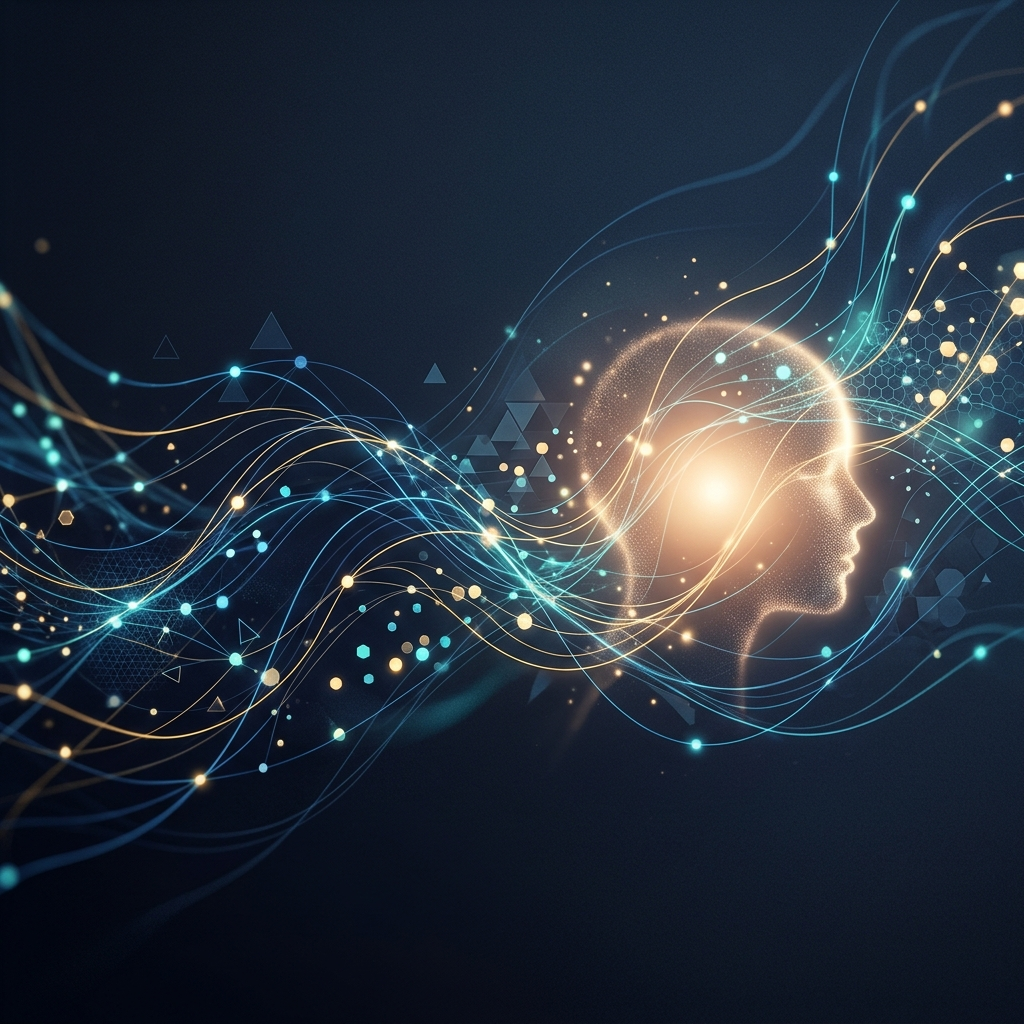
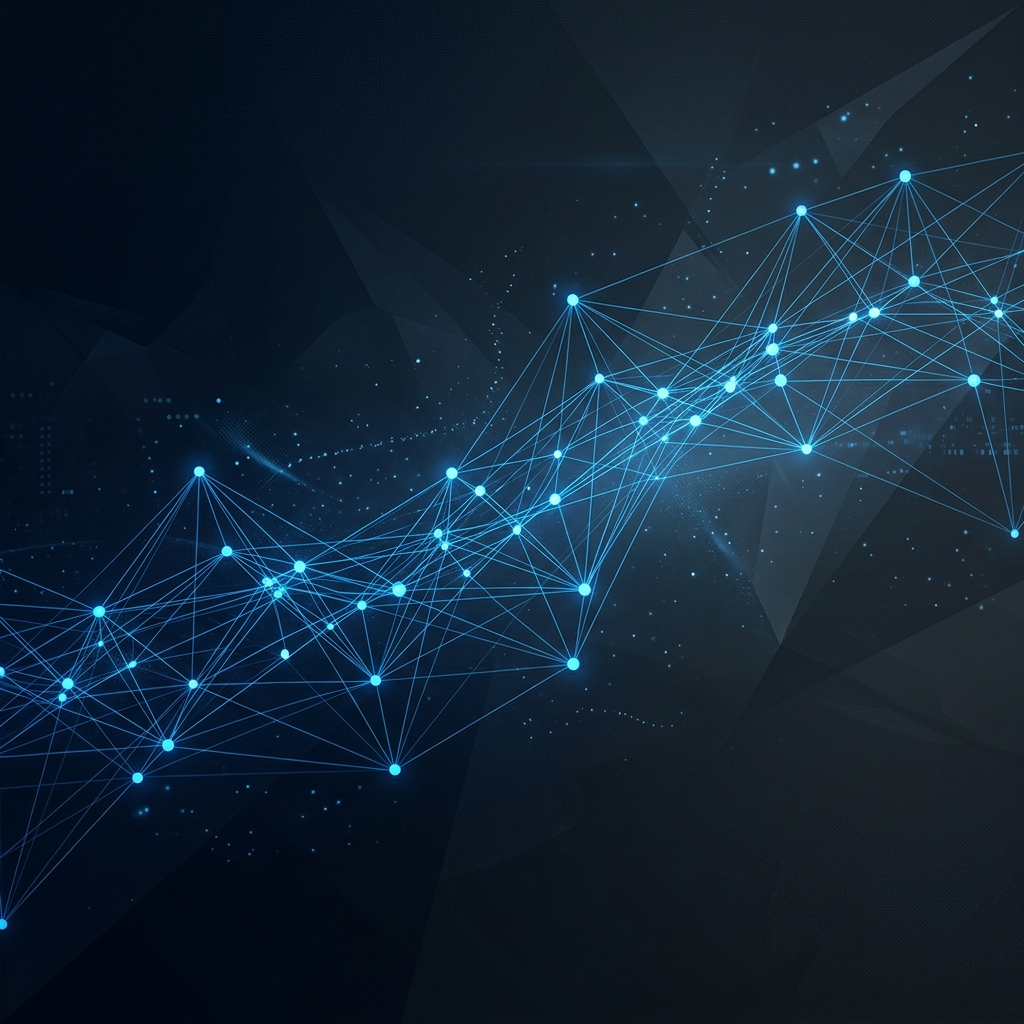
Anonymize website: replace personal name, photos, and references with yankubota and illustrations

diff --git a/index.html b/index.html
@@ -3,8 +3,8 @@
 <head>
     <meta charset="UTF-8">
     <meta name="viewport" content="width=device-width, initial-scale=1.0">
-    <title>久保田 善博 ｜ 中小企業のDXを成果に変える伴走者 (株式会社Banso)</title>
-    <meta name="description" content="株式会社Banso代表。中小企業のDX推進をデータ、AI、人の才能で伴走支援。ウェブ解析士マスター、ブランド・マネージャー1級。">
+    <title>yankubota ｜ 中小企業のDXを成果に変える伴走者 (Personal Tech Lab)</title>
+    <meta name="description" content="Personal Tech Lab代表。中小企業のDX推進をデータ、AI、人の才能で伴走支援。ITコンサルタント、DXアドバイザー。">
     <link rel="stylesheet" href="index.css">
 </head>
 <body>
@@ -12,8 +12,8 @@
     <header>
         <div class="container nav-container">
             <div class="logo-group">
-                <img src="logo.png" alt="Banso Logo" class="logo-icon">
-                <span class="logo-text">Yoshihiro Kubota</span>
+                <img src="logo.png" alt="Logo" class="logo-icon">
+                <span class="logo-text">yankubota</span>
             </div>
             <nav>
                 <!-- Simple nav could be added here if needed -->
@@ -32,7 +32,7 @@
                     <span class="gradient-text">人の才能で伸ばす。</span>
                 </h1>
                 <p class="hero-subtitle">
-                    久保田 善博 ｜ 株式会社Banso 代表取締役<br>
+                    yankubota ｜ Personal Tech Lab 代表<br>
                     中小企業のDXを、"その場で動く成果"に変える伴走者
                 </p>
                 <a href="#about" class="btn btn-primary">詳しく知る</a>
@@ -46,32 +46,32 @@
             <div class="about-flex">
                 <div class="about-text">
                     <p>
-                        1978年、茨城県土浦市生まれ。2019年に株式会社Bansoを創業し、以来一貫して中小企業のデジタル活用を現場で伴走支援してまいりました。
+                        1970年代生まれ、関東近辺を拠点に活動。2019年に個人プロジェクトを立ち上げ、以来一貫して中小企業のデジタル活用を現場で伴走支援してまいりました。
                     </p>
                     <p style="margin-top: 1.5rem;">
-                        専門は、ウェブ解析に基づく販路開拓支援と、生成AI・n8n等を組み合わせたマーケティング業務の自動化設計です。ウェブ解析士マスターとして数値の裏付けを重視しつつ、ブランド・マネージャー1級の視点から「その会社らしさ」を言語化することを強みとしています。
+                        専門は、データ解析に基づく販路開拓支援と、生成AI等を組み合わせた業務の自動化設計です。数値の裏付けを重視しつつ、ブランド戦略の視点から「その組織らしさ」を言語化することを強みとしています。
                     </p>
                     <p style="margin-top: 1.5rem;">
-                        現在は、東京都江東区と茨城県土浦市の2拠点生活を送りながら、WACA関東支部長として協会運営に関与するほか、デジタル庁デジタル推進委員、経済産業省認定 経営革新等支援機関として、補助金活用・地方DX推進に多角的に取り組んでいます。
+                        現在は、都心と地方の2拠点生活を送りながら、IT団体の役職を務めるほか、公的機関のDX推進アドバイザー、認定支援機関として、補助金活用に取り組んでいます。
                     </p>
                     
                     <div class="profile-meta">
                         <div class="meta-item">
                             <span class="meta-label">代表</span>
-                            <span>久保田 善博 (くぼた よしひろ)</span>
+                            <span>yankubota</span>
                         </div>
                         <div class="meta-item">
-                            <span class="meta-label">会社名</span>
-                            <span>株式会社Banso</span>
+                            <span class="meta-label">活動名</span>
+                            <span>Personal Tech Lab</span>
                         </div>
                         <div class="meta-item">
                             <span class="meta-label">拠点</span>
-                            <span>東京都江東区 ⇄ 茨城県土浦市（2拠点居住）</span>
+                            <span>都心 ⇄ 地方（2拠点居住）</span>
                         </div>
                     </div>
                 </div>
                 <div class="about-image">
-                    <img src="kubota_800px.png" alt="久保田 善博 プロフィール">
+                    <img src="avatar.png" alt="yankubota プロフィールイラスト">
                 </div>
             </div>
         </section>
@@ -101,9 +101,9 @@
                     <div class="card qual-card">
                         <h3>協会 / 公職</h3>
                         <ul class="qual-list">
-                            <li>WACA 関東支部長 / 会員部部長</li>
-                            <li>WACA 事業推進部 地方DX委員</li>
-                            <li>デジタル庁 デジタル推進委員</li>
+                            <li>IT団体 役職</li>
+                            <li>地方DX推進委員</li>
+                            <li>公的機関 DXアドバイザー</li>
                         </ul>
                     </div>
                 </div>
@@ -121,9 +121,9 @@
                     <p>才能駆動マーケティング × データドリブン × AI伴走 の三本柱で構成する実務特化型カリキュラム。</p>
                 </div>
                 <div class="card">
-                    <h3 style="color: var(--primary); margin-bottom: 1rem;">Banso-AX（自動化伴走）</h3>
+                    <h3 style="color: var(--primary); margin-bottom: 1rem;">Automated-AX（自動化伴走）</h3>
                     <p style="font-size: 0.9rem; color: var(--secondary); margin-bottom: 1rem;">中小企業・士業・専門職向け</p>
-                    <p>n8n・生成AI・BigQueryを組み合わせた業務自動化の設計/実装/運用を支援。</p>
+                    <p>生成AI・BigQueryを組み合わせた業務自動化の設計/実装/運用を支援。</p>
                 </div>
                 <div class="card">
                     <h3 style="color: var(--primary); margin-bottom: 1rem;">ウェブ解析コンサルティング</h3>
@@ -179,13 +179,13 @@
 
     <footer>
         <div class="container">
-            <img src="logo.png" alt="Banso Logo" style="width: 50px; margin-bottom: 20px;">
-            <h3>株式会社Banso</h3>
+            <img src="logo.png" alt="Logo" style="width: 50px; margin-bottom: 20px;">
+            <h3>Personal Tech Lab</h3>
             <p style="margin-top: 10px;">中小企業のDX推進を伴走支援するパートナー</p>
             <div style="margin-top: 30px;">
-                <a href="https://bansoo.co.jp/" target="_blank" class="btn btn-primary">公式サイトを見る</a>
+                <a href="#" target="_blank" class="btn btn-primary">ポートフォリオを見る</a>
             </div>
-            <p class="footer-copy">&copy; 2024 Banso Inc. All Rights Reserved.</p>
+            <p class="footer-copy">&copy; 2024 yankubota. All Rights Reserved.</p>
         </div>
     </footer>
 

diff --git a/index.css b/index.css
@@ -107,7 +107,7 @@ header {
     justify-content: center;
     text-align: center;
     position: relative;
-    background: url('hero_background_abstract_dx_1776323932400.png') no-repeat center center;
+    background: url('hero-bg.png') no-repeat center center;
     background-size: cover;
     opacity: 1;
     transform: none;
